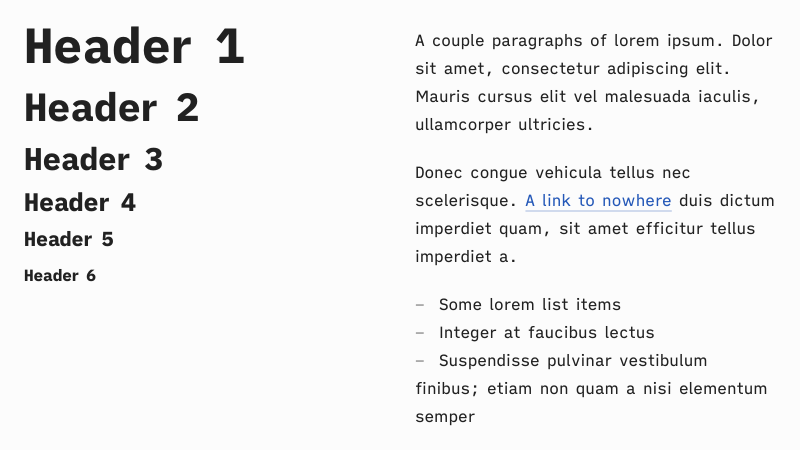
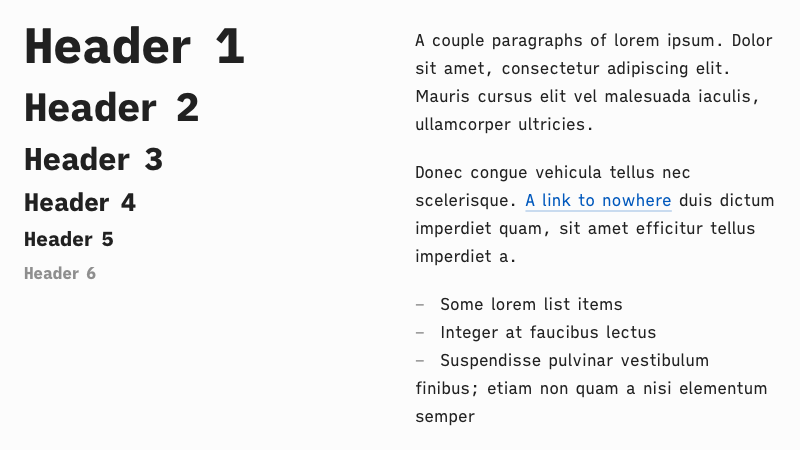
Improved Tetra stylesheet
- Better high contrast mode
- Tweaked all vertical paddings/margins for better rythm

diff --git a/stylesheets/Tetra.css b/stylesheets/Tetra.css
@@ -9,7 +9,7 @@ URL: https://jocelynrichard.com/
 Description: High legibility, low strain style for long-form reading.
 Fonts: iA Writer Mono, iA Writer Quattro
 Notes:
-	- Typesetting follows a major third scale
+	- Typeset on a major third scale
 	- High contrast mode goes beyong color inversion
 ---
 */
@@ -40,7 +40,7 @@ html {
 }
 
 body {
-	background-color: hsla(0, 0%, 99%, 1);
+	background-color: hsla(0, 0%, 99%, 1); /* #FCFCFC */
 	color: hsla(0, 0%, 13%, 1); /* #222222 */
 }
 
@@ -52,32 +52,32 @@ h1 {
 	font-size: 3.052rem;
 	font-weight: 800;
 	line-height: 1.2;
-	margin: 2rem 0 1.45rem 0;
+	margin: 5rem 0 1.5rem 0;
 }
 
 h2 {
 	font-size: 2.441rem;
 	font-weight: 800;
 	line-height: 1.2;
-	margin: 1.5rem 0 1.45rem 0;
+	margin: 3.5rem 0 1.5rem 0;
 }
 
 h3 {
 	font-size: 1.953rem;
 	line-height: 1.2;
-	margin: 1.5rem 0 1.45rem 0;
+	margin: 2rem 0 1.5rem 0;
 }
 
 h4 {
 	font-size: 1.563rem;
 	line-height: 1.2;
-	margin: 1rem 0 1rem 0;
+	margin: 1rem 0 0.75rem 0;
 }
 
 h5 {
 	font-size: 1.25rem;
 	line-height: 1.2;
-	margin: 1rem 0 1rem 0;
+	margin: 1rem 0 0.75rem 0;
 }
 
 h6 {
@@ -85,7 +85,7 @@ h6 {
 	font-weight: 800;
 	line-height: 1.5;
 	color: hsla(0, 0%, 13%, 0.5); /* #222222 */
-	margin: 1rem 0 1rem 0;
+	margin: 1rem 0 0.75rem 0;
 }
 
 p,
@@ -95,12 +95,7 @@ dl,
 	font-size: 1rem;
 	font-weight: 400;
 	line-height: 1.75;
-	margin: 0.75rem 0;
-}
-
-p + p {
-	border:1px dashed transparent; /*cross browser transparent border*/
-	margin-top: 0rem;
+	margin: 0.5rem 0;
 }
 
 dt {
@@ -120,13 +115,6 @@ dd {
 #wrapper ol {
 	list-style-position: outside;
 	list-style-type: none;
-}
-
-#wrapper ul {
-}
-
-#wrapper li::marker {
-	
 }
 
 #wrapper ol {
@@ -158,7 +146,7 @@ dd {
 }
 
 #wrapper a:link {
-	color: #0059BF;
+	color: hsla(212, 100%, 37%, 1); /* Bleu 0660 Atténué #0059BF */
 	font-weight: 400;
 	text-decoration: none;
 	border-bottom: 2px solid hsla(212, 100%, 37%, 0.2); /* Bleu 0660 Atténué #0059BF */
@@ -174,8 +162,8 @@ dd {
 } 
 
 #wrapper a:visited {
-	color: #402CCB;
-	border-color: hsla(212, 100%, 37%, 0.2); /* Bleu 0660 Atténué #0059BF */
+	color: hsla(252, 94%, 65%, 1); /* Mauve 0483 #7552FA */
+	border-color: hsla(252, 94%, 65%, 0.2); /* Mauve 0483 #7552FA */
 }
 
 #wrapper a:focus {
@@ -190,7 +178,7 @@ blockquote {
 	background-color: hsla(0, 0%, 13%, 0.03); /* #222222 */
 	color: hsla(0, 0%, 13%, 0.75); /* #222222 */
 	border-radius: 12px;
-	margin: 1rem 0;
+	margin: 1.5rem 0;
 	padding: 0.1rem 1rem;
 }
 
@@ -206,7 +194,7 @@ code {
 pre {
 	background-color: hsla(0, 0%, 13%, 0.03); /* #222222 */
 	border-radius: 12px;
-	margin-bottom: 0.75rem;
+	margin: 1.5rem 0;
 	padding: 0.5rem;
 }
 
@@ -221,20 +209,16 @@ img {
 	max-width: 100%;
 }
 
+figure {
+	margin: 1.5rem 0;
+}
+
 table {
 	font-family: 'iA Writer Mono V', monospace;
 	font-size: 0.85rem;
-	margin: 0 0 1.5rem 0;
+	margin: 1.5rem 0;
 	border-collapse: collapse;
 	border: none;
-}
-
-tr {
-	border-bottom: 1px solid hsla(0, 0%, 13%, 0.1); /* #222222 */	
-}
-
-tr:last-child {
-	border-bottom: none;
 }
 
 th,
@@ -245,6 +229,14 @@ td {
 th {
 	font-weight: 600;
 	border-bottom: 2px solid hsla(0, 0%, 13%, 1); /* #222222 */
+}
+
+tr {
+	border-bottom: 1px solid hsla(0, 0%, 13%, 0.1); /* #222222 */	
+}
+
+tr:last-child {
+	border-bottom: none;
 }
 
 caption,
@@ -261,6 +253,7 @@ figcaption,
 
 #wrapper .footnotes p { /* Hacky; surely could be done otherwise */
 	display: inline;
+	margin-left: 0;
 }
 
 #wrapper .footnotes ol > li:before { /* Hacky; surely could be done otherwise */
@@ -279,14 +272,13 @@ figcaption,
 hr {
 	width: 100%;
 	border-top: 2px solid hsla(0, 0%, 13%, 0.2); /* #222222 */
-	margin: 3rem auto;
+	margin: 5rem auto;
 	clear: none;
 }
 
-
 ::selection {
-	color: hsla(252, 94%, 65%, 1); /* Mauve 0483 #7552FA */
 	background-color: hsla(252, 94%, 65%, 0.1); /* Mauve 0483 #7552FA */
+	color: hsla(252, 94%, 65%, 1); /* Mauve 0483 #7552FA */
 }
 
 #firstdiff::before { /* Marked edit marker */
@@ -335,7 +327,16 @@ a {
 	.inverted,
 	.inverted #wrapper {
 		background-color: hsla(0, 0%, 13%, 1); /* #222222 */
-		color: #FCFCFC;
+		color: hsla(0, 0%, 99%, 1); /* FCFCFC */
+	}
+	
+	.inverted h6 {
+		color: hsla(0, 0%, 99%, 0.75); /* FCFCFC */
+	}
+
+	.inverted #wrapper ul > li:before,
+	.inverted #wrapper ol > li:before {
+		color: hsla(0, 0%, 99%, 0.75); /* FCFCFC */
 	}
 
 	.inverted #wrapper a:link {
@@ -344,66 +345,64 @@ a {
 	}
 
 	.inverted #wrapper a:hover {
-		border-color: #C4F244;
-		color: #C4F244;
+		border-color: hsla(175, 81%, 60%, 1); /* Vert 046 #48ECDD */
+		color: hsla(175, 81%, 60%, 1); /* Vert 046 #48ECDD */
 	}
 	
 	.inverted #wrapper a:active {
-		background-color: hsla(0, 0%, 97%, 0.1); /* Gris 0106 Béton Clair #F8F8F8 */
+		border-color: #FFFFFF;
+		color: #FFFFFF;
 	}
 	
 	.inverted #wrapper a:visited {
-		border-color: hsla(0, 0%, 97%, 0.5); /* Gris 0106 Béton Clair #F8F8F8 */
-		color: hsla(0, 0%, 97%, 1); /* Gris 0106 Béton Clair #F8F8F8 */
+		border-color: hsla(212, 100%, 37%, 1); /* Bleu 0660 Atténué #0059BF */
+		color: hsla(212, 100%, 37%, 1); /* Bleu 0660 Atténué #0059BF */
 	}
 
 	.inverted blockquote {
-		border-color: hsla(0, 0%, 97%, 0.5); /* Gris 0106 Béton Clair #F8F8F8 */
-		color: hsla(0, 0%, 97%, 0.6); /* Gris 0106 Béton Clair #F8F8F8 */
+		background-color: hsla(0, 0%, 99%, 0.1); /* FCFCFC */
+		color: hsla(0, 0%, 99%, 0.75); /* FCFCFC */
 	}
 	
 	.inverted code {
-		background-color: hsla(0, 0%, 97%, 0.1); /* Gris 0106 Béton Clair #F8F8F8 */
-		color: hsla(0, 0%, 97%, 0.6); /* Gris 0106 Béton Clair #F8F8F8 */
+		background-color: hsla(0, 0%, 99%, 0.1); /* FCFCFC */
+		color: hsla(0, 0%, 99%, 0.75); /* FCFCFC */
 	}
 	
 	.inverted pre {
-		background-color: hsla(0, 0%, 97%, 0.1); /* Gris 0106 Béton Clair #F8F8F8 */
+		background-color: hsla(0, 0%, 99%, 0.1); /* FCFCFC */
 	}
 	
 	.inverted pre code {
 		background-color: transparent;
 	}
 
-	.inverted table,
-	.inverted th,
-	.inverted td {
-		border-color: hsla(0, 0%, 97%, 1); /* Gris 0106 Béton Clair #F8F8F8 */;	
+	.inverted th {
+		border-color: hsla(0, 0%, 99%, 1); /* FCFCFC */
+	}
+
+	.inverted tr {
+		border-color: hsla(0, 0%, 99%, 0.4); /* FCFCFC */
 	}
 
 	.inverted caption,
 	.inverted figcaption,
-	.inverted .footnotes ol li,
-	.inverted .footnotes p,
-	.inverted #wrapper a.footnote {
-		color: hsla(0, 0%, 97%, 0.6); /* Gris 0106 Béton Clair #F8F8F8 */
-	}
-
-	.inverted #wrapper a:hover.footnote {
-		color: #C4F244;
+	.inverted #wrapper .footnotes ol li,
+	.inverted #wrapper .footnotes p {
+		color: hsla(0, 0%, 99%, 0.75); /* FCFCFC */	
 	}
 
 	.inverted hr {
-		border-color: hsla(0, 0%, 99%, 1);
+		border-color: hsla(0, 0%, 99%, 1); /* FCFCFC */
 	}
 	
-	::selection {
-		color: hsla(252, 100%, 76%, 1); /* Mauve 0483 #7552FA */
-		background-color: hsla(252, 100%, 76%, 0.1); /* Mauve 0483 #7552FA */
+	.inverted ::selection {
+		background-color: hsla(252, 100%, 76%, 0.1);
+		color: hsla(252, 100%, 76%, 1);
 	}
 	
-	#firstdiff::before { /* Marked edit marker */
-		color: hsla(202, 100%, 71%, 1);
+	.inverted #firstdiff::before { /* Marked edit marker */
+		color: hsla(202, 100%, 71%, 1) !important;
 	}
 
 	.inverted #wrapper .mkstyledtag { /* Marked tags */

diff --git a/stylesheets/UXASF1.css b/stylesheets/UXASF1.css
@@ -358,8 +358,8 @@ a {
 
 	.inverted caption,
 	.inverted figcaption,
-	.inverted .footnotes ol li,
-	.inverted .footnotes p,
+	.inverted #wrapper .footnotes ol li,
+	.inverted #wrapper .footnotes p,
 	.inverted #wrapper a.footnote {
 		color: hsla(0, 0%, 97%, 0.6); /* Gris 0106 Béton Clair #F8F8F8 */
 	}

diff --git a/README.md b/README.md
@@ -23,10 +23,10 @@ The stylesheets haven't been tested in other tools. However they're generic CSS 
 
 **Tetra**  
 High legibility, low strain style for long-form reading. Supports high contrast mode. Fonts: [iA Writer Mono](https://github.com/iaolo/iA-Fonts/tree/master/iA%20Writer%20Mono), [iA Writer Mono](https://github.com/iaolo/iA-Fonts/tree/master/iA%20Writer%20Quattro), both free.
-![previews/tetra.png](previews/tetra.png)
+![](previews/tetra.png)
 
 **UXASF1**  
-Run-of-the-mill sans-serif style, with big text baseline and even bigger titles. Used to render [UXA documents](https://github.com/nWODT-Cobalt/uxa). Supports high contrast mode. Fonts: [Inter](https://rsms.me/inter/) and [iA Writer Mono](https://github.com/iaolo/iA-Fonts/tree/master/iA%20Writer%20Mono), both free.  
+Run-of-the-mill sans-serif style, with big text baseline and even bigger titles. Used to render [UXA documents](https://github.com/nWODT-Cobalt/uxa). Supports high contrast mode. Fonts: [Inter](https://rsms.me/inter/), [iA Writer Mono](https://github.com/iaolo/iA-Fonts/tree/master/iA%20Writer%20Mono), both free.  
 ![](previews/uxasf1.png)
 
 Older stylesheets, not updated since 2015 ↓
